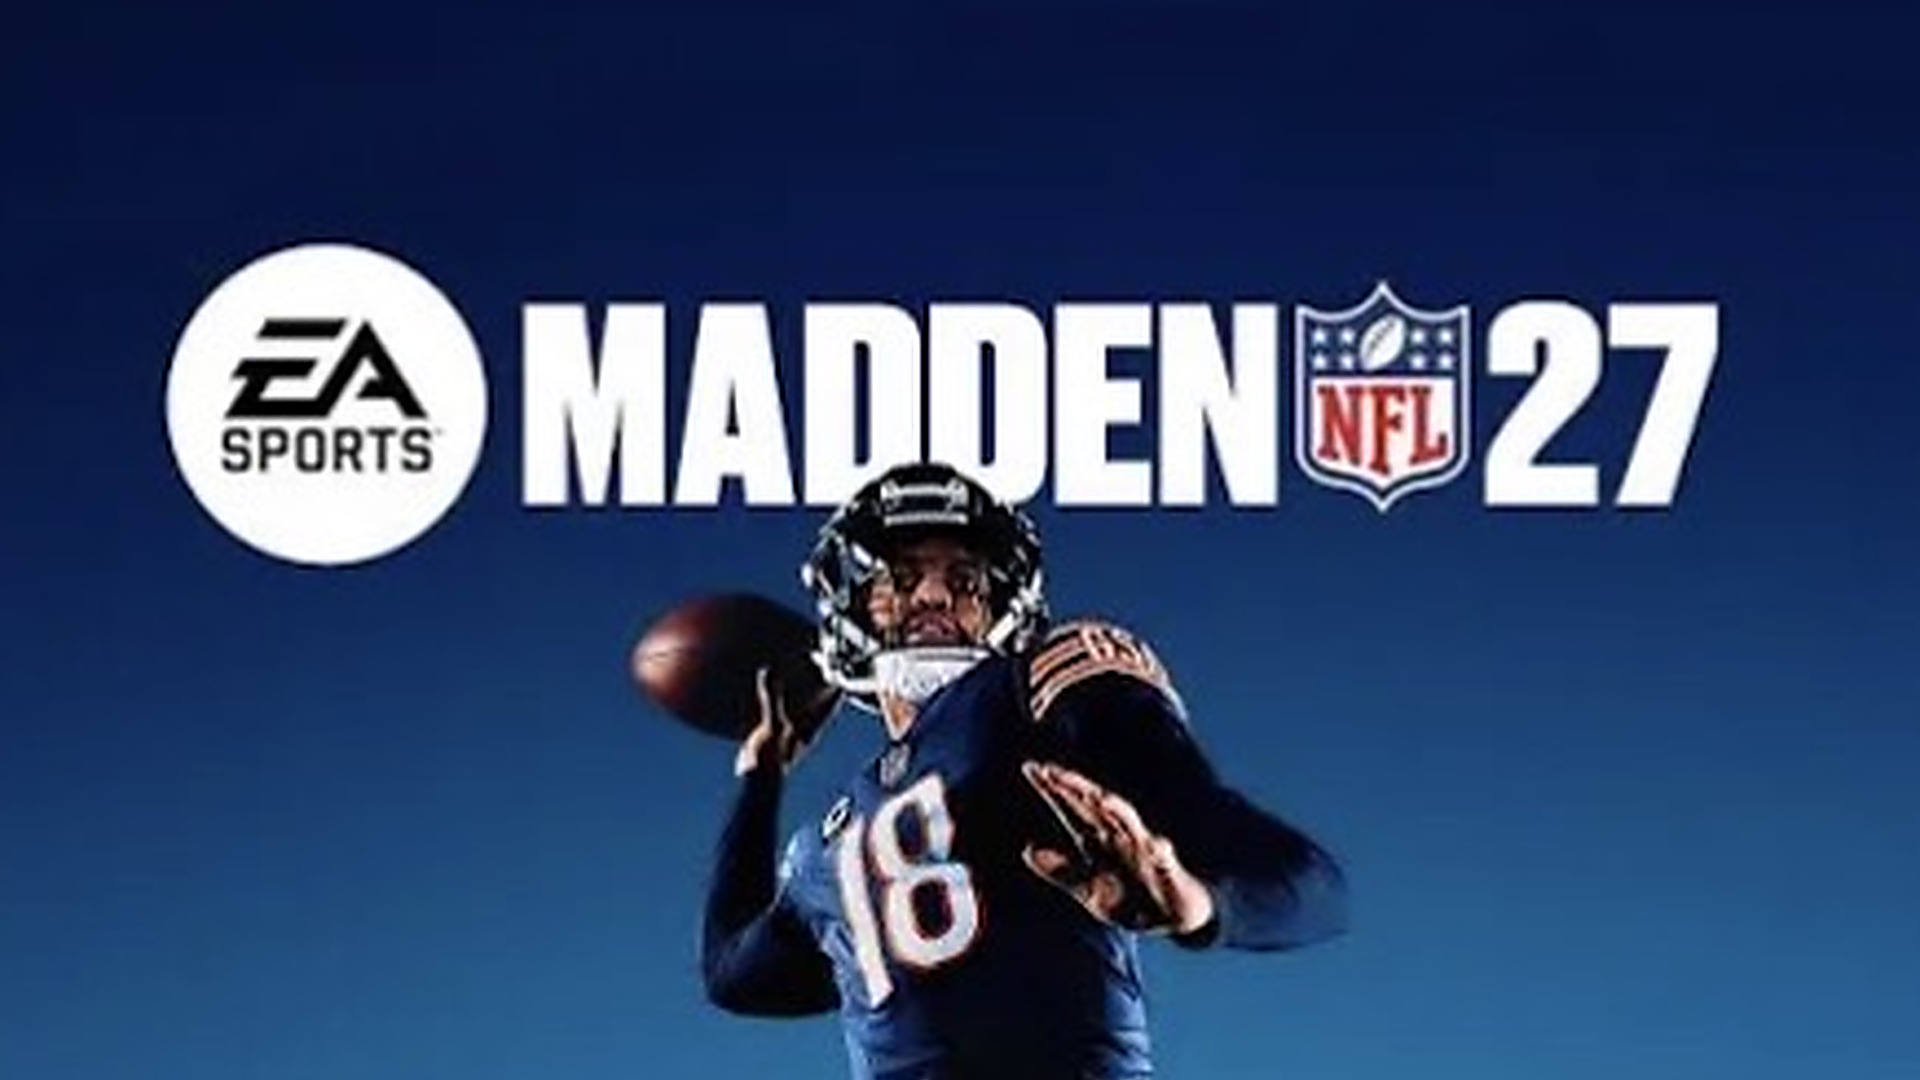
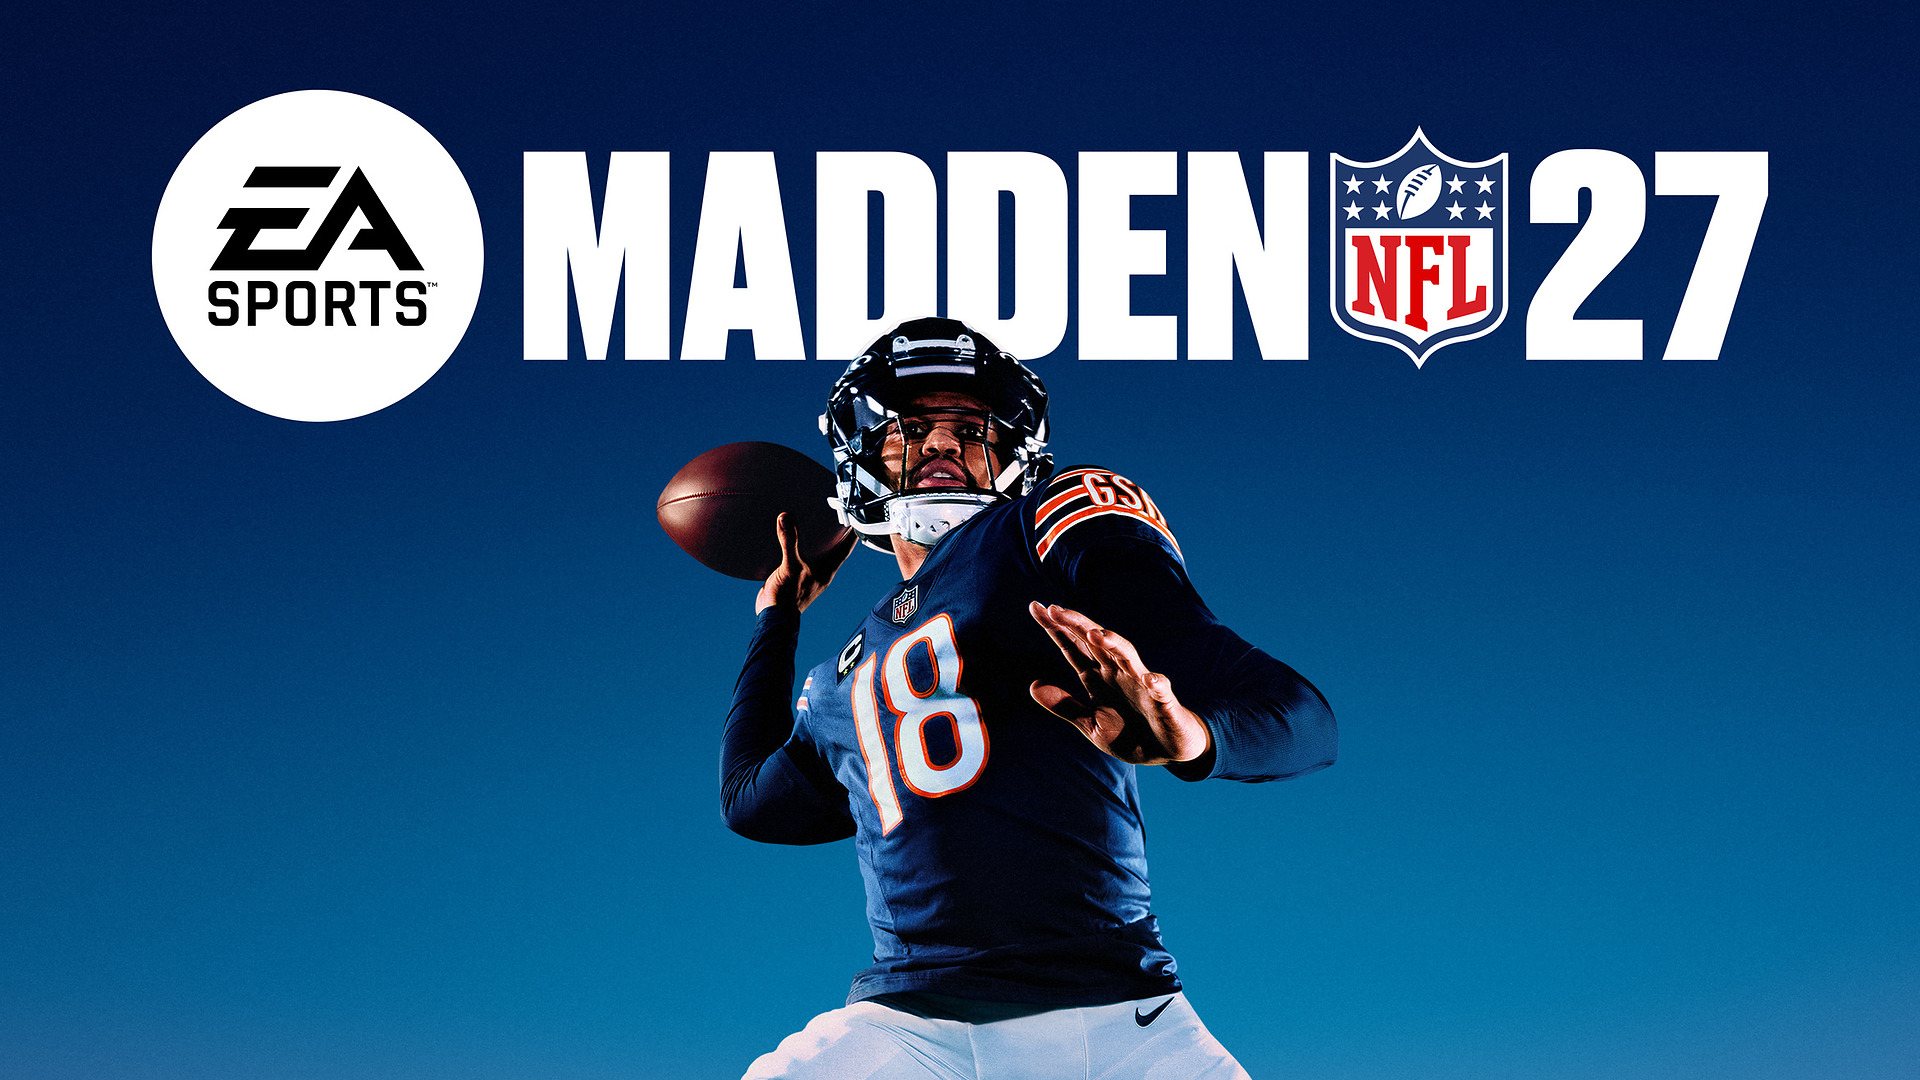
Replace the game covers with official press key art
The two screenshots that looked fine and the two that looked bad pinned this
precisely: the SAME asset is fine at 170-440px (grid tiles, tournament cards)
and soft at 790-880px (hero slideshow, CTA). Nothing was wrong with those two
components - the sources were 446-592px thumbnails being blown up 3-4.5x, and
sharpening cannot invent detail that was never captured.

Fetched the real thing instead:

  Madden NFL 27      4500x5000  EA newsroom press key art  (was 446x635)
  College Football 27 4500x5000 EA newsroom press key art  (was 459x465)
  NBA 2K27 Ultra      2160x2160 2K newsroom cover art      (was 592x708)

Every output is now a DOWNSCALE (0.8-0.9x) rather than a 3-4.5x upscale. The
unsharp mask gained a downscale branch, because resampling down softens edges
too, just less violently.

Key art also arrives without the retail furniture, so the trims shrank to just
the ESRB/NFLPA strip - no more cutting the PlayStation case edge off the
College Football scan, which was a photo of a boxed game.

focus_y had to be retuned to near-zero for all three. The old values were tuned
against different source proportions and clipped the wordmark on these; that is
worth knowing before anyone copies a number between sources.

Sources capped at 2600px long edge: still above the 1920px card so everything
stays a downscale with headroom to re-crop, but 41 MB of press art becomes 8.8.

Cover art confirmed current: Caleb Williams (Madden 27), the Moore/Toney/Lacy
[…]

diff --git a/scripts/build-game-art.py b/scripts/build-game-art.py
@@ -1,6 +1,11 @@
 """
 Fit the client's official game covers to the two art slots the site uses.
 
+SOURCES ARE OFFICIAL PRESS KEY ART (4500x5000 from EA's newsroom, 2160x2160
+from 2K's), so everything below is now a DOWNSCALE. The earlier versions of this
+script were fighting 446-592px thumbnails blown up 3-4.5x, which is why the
+cards looked soft at hero size while looking fine as small grid tiles.
+
     card-<game>.jpg   1920x1080  16:9  — marketplace + homepage cards, CTA,
                                           Stats, and the hero slideshow
     game-<game>.jpg    800x1000   4:5  — the Games grid tile
@@ -38,15 +43,21 @@ from PIL import Image, ImageFilter
 # slug -> source, trim (l, t, r, b as fractions), 16:9 focus_y, 4:5 focus_y.
 #
 # focus_y picks which horizontal band survives the crop: 0 keeps the top edge,
-# 1 keeps the bottom. Lower it where the wordmark sits high in the cover.
+# 1 keeps the bottom. All three sit at or near 0 because on official key art the
+# wordmark is right at the top — anything higher clips it. (These values are NOT
+# transferable from the old box-photo sources: those had different proportions,
+# so the same number cropped to a completely different place.)
 GAMES = [
-    # Wordmark sits ~25% down, under a band of sky — needs more headroom than
-    # the others or the crop opens on empty blue.
-    ("_src-madden-cover.png", "madden", (0.012, 0.0, 0.012, 0.175), 0.20, 0.30),
-    # Wordmark hard at the top; three players fill the middle.
-    ("_src-ncaa-cover.png", "ncaa", (0.045, 0.008, 0.035, 0.145), 0.07, 0.28),
-    # "2K27" runs across the very top with Rose's head just under it.
-    ("_src-nba2k-cover.png", "nba2k", (0.0, 0.0, 0.0, 0.0), 0.05, 0.22),
+    # Official press key art, 4500x5000, from EA's newsroom. Only the ESRB /
+    # NFLPA strip along the bottom needs removing — key art has no case edge and
+    # no platform badges, unlike the box photos this replaced.
+    ("_src-madden-cover.jpg", "madden", (0.0, 0.0, 0.0, 0.115), 0.02, 0.30),
+    # Official press key art, 4500x5000. ESRB block bottom-left.
+    ("_src-ncaa-cover.jpg", "ncaa", (0.0, 0.0, 0.0, 0.10), 0.0, 0.24),
+    # Official Ultra Edition cover, 2160x2160, from 2K's newsroom. Carries an
+    # "ULTRA EDITION" line across the top that is an edition label rather than
+    # part of the artwork, so it comes off.
+    ("_src-nba2k-cover.jpg", "nba2k", (0.0, 0.085, 0.0, 0.0), 0.0, 0.14),
 ]
 
 CARD_W, CARD_H = 1920, 1080  # 16:9
@@ -77,18 +88,20 @@ def fill_crop(src, out_name, W, H, focus_y):
     y = round((r.height - H) * focus_y)
     out = r.crop((x, y, x + W, y + H))
 
-    # Perceived sharpness recovery.
+    # Acutance. LANCZOS is correct interpolation but leaves no edge contrast, and
+    # that absence is what a viewer reads as "blurry" — in BOTH directions.
     #
-    # These sources are 446-592px being blown up 3-4.5x, and LANCZOS gives a
-    # clean but soft result — correct interpolation, no acutance. An unsharp
-    # mask cannot invent detail that was never captured, but it restores the
-    # edge contrast the upscale washed out, which is what actually reads as
-    # "blurry" to a viewer.
+    #   downscale (s < 1): the sources are now 2160-4500px press key art being
+    #     reduced to 1920 or 800. Real detail is being thrown away, so a light
+    #     touch restores the crispness the resample softened.
+    #   upscale (s > 1.2): nothing can invent detail that was never captured,
+    #     but restoring edge contrast still helps a lot. Scaled to the factor so
+    #     art that barely needed enlarging never gets over-sharpened into halos.
     #
-    # Scaled to the upscale factor: a source that barely needed enlarging gets
-    # little or none, so this never over-sharpens into halos on good art. The
-    # threshold keeps flat areas (sky, studio backdrops) from picking up noise.
-    if s > 1.2:
+    # The threshold keeps flat areas (sky, studio backdrops) from growing noise.
+    if s < 1.0:
+        out = out.filter(ImageFilter.UnsharpMask(radius=0.8, percent=65, threshold=3))
+    elif s > 1.2:
         amount = min(150, int(60 * s))
         out = out.filter(ImageFilter.UnsharpMask(radius=1.6, percent=amount, threshold=3))
 
